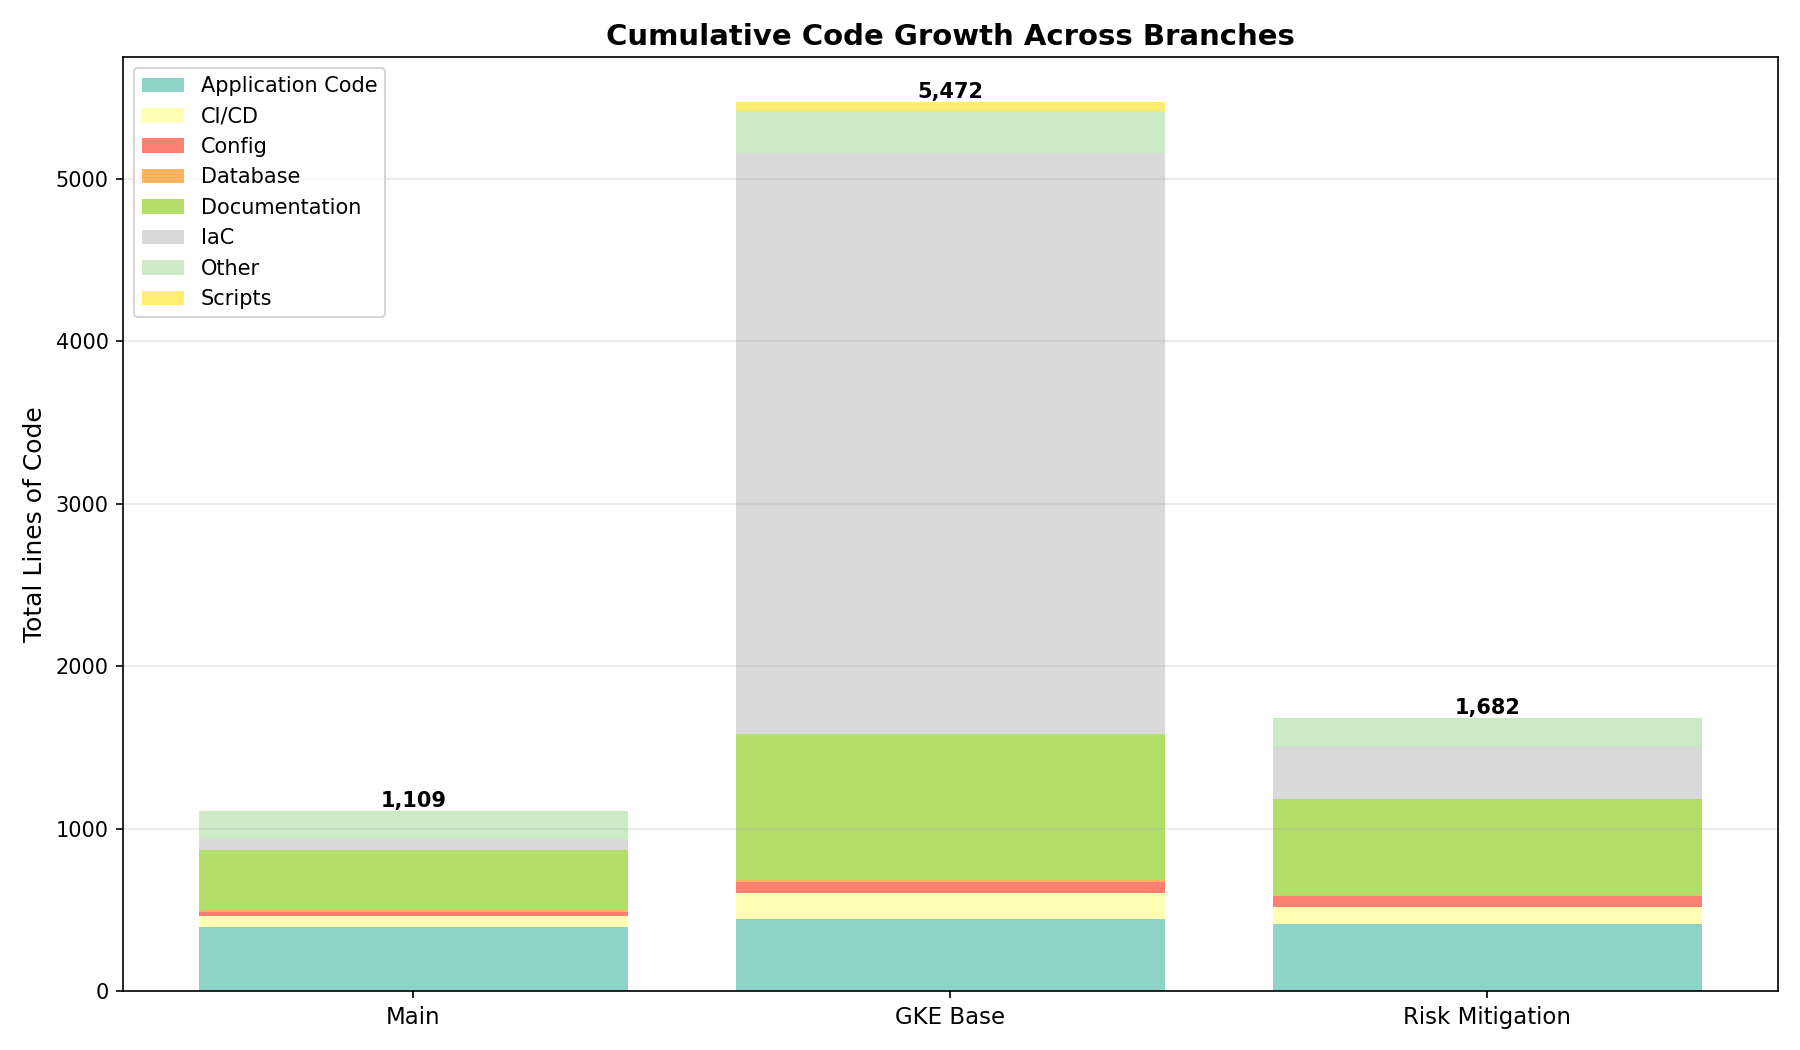
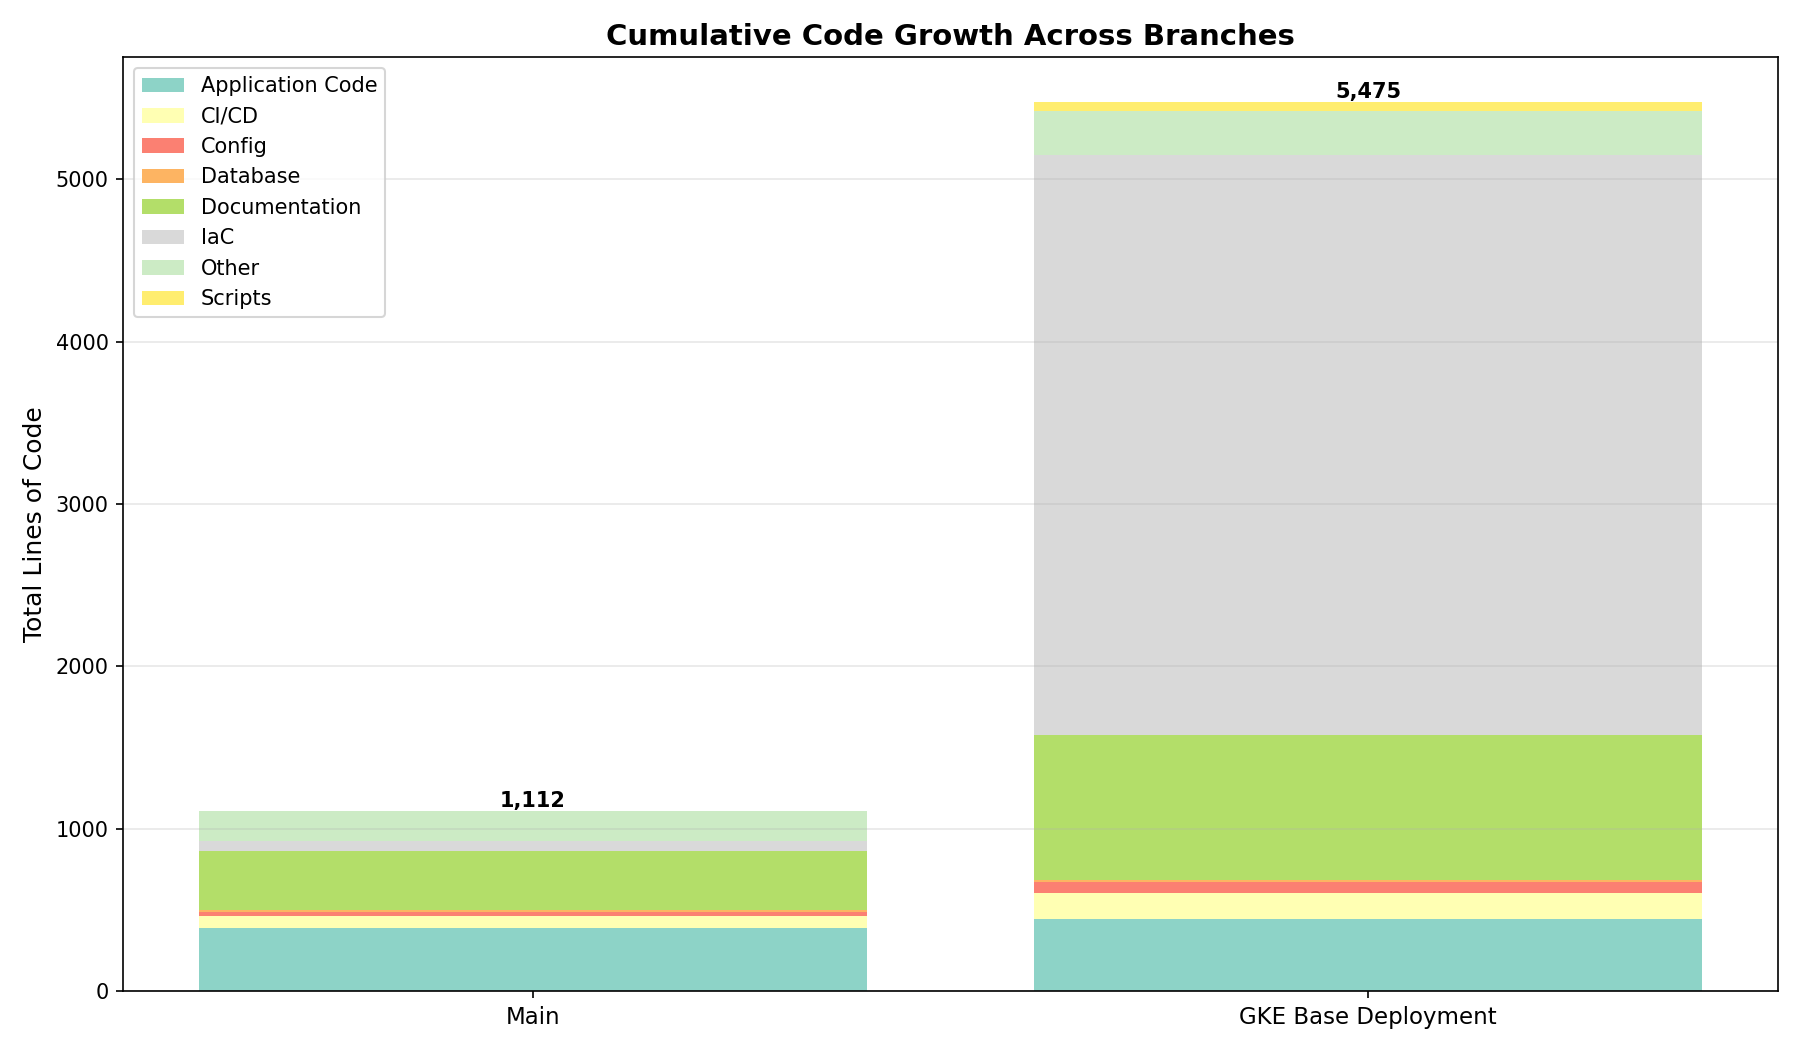
Simplify analysis to show main → GKE base progression only

diff --git a/analyze_repo.py b/analyze_repo.py
@@ -75,24 +75,24 @@ def analyze_branches(branches):
 
 def main():
     main_stats = analyze_main()
-    # Exclude ha-scalability-hardening since it has no changes yet
-    branches = ["feature/gke-base-deployment", "feature/risk-mitigation"]
-    branch_stats = analyze_branches(branches)
+    # Only analyze gke-base-deployment (risk-mitigation is an earlier parallel branch)
+    gke_base_stats = analyze_branches(["feature/gke-base-deployment"])
     
     # Calculate cumulative totals
-    cumulative_stats = {"main": main_stats}
+    cumulative_stats = {}
     
-    for branch in branches:
-        # Start with main's totals
-        cumulative = dict(main_stats)
-        # Apply this branch's changes (added - deleted) to main's totals
-        for cat, changes in branch_stats.get(branch, {}).items():
-            cumulative[cat] = cumulative.get(cat, 0) + changes['added'] - changes['deleted']
-        cumulative_stats[branch] = cumulative
+    # Main baseline
+    cumulative_stats["main"] = main_stats
+    
+    # GKE Base = Main + gke-base changes
+    gke_cumulative = dict(main_stats)
+    for cat, changes in gke_base_stats.get("feature/gke-base-deployment", {}).items():
+        gke_cumulative[cat] = gke_cumulative.get(cat, 0) + changes['added'] - changes['deleted']
+    cumulative_stats["feature/gke-base-deployment"] = gke_cumulative
     
     report = {
         "main": main_stats,
-        "branches_delta": branch_stats,
+        "branches_delta": gke_base_stats,
         "cumulative": cumulative_stats
     }
     
@@ -105,13 +105,13 @@ def generate_chart(report):
         import matplotlib.pyplot as plt
         import numpy as np
         
-        # Use cumulative data for the chart - show progression: main -> base -> risk
-        branch_order = ["main", "feature/gke-base-deployment", "feature/risk-mitigation"]
+        # Use cumulative data for the chart - show progression: main -> gke-base
+        branch_order = ["main", "feature/gke-base-deployment"]
         data = {k: report['cumulative'][k] for k in branch_order}
         
         branches = list(data.keys())
         # Rename for display
-        branch_labels = ["Main", "GKE Base", "Risk Mitigation"]
+        branch_labels = ["Main", "GKE Base Deployment"]
         categories = sorted(list({k for b in data.values() for k in b.keys()}))
         
         if not categories:

diff --git a/REPO_ANALYSIS.md b/REPO_ANALYSIS.md
@@ -1,12 +1,11 @@
 # Repository Analysis: Todo App Go
 
-This analysis tracks the evolution of the codebase across branches, showing cumulative line counts over time.
+This analysis tracks the evolution of the codebase from the main branch to the production-ready GKE deployment.
 
 ## Methodology
 
 - **Main Branch**: Baseline measurement of all code in the main branch
-- **Branch Deltas**: Lines added/deleted in each feature branch relative to main
-- **Cumulative Totals**: Total lines of code including main + branch changes
+- **GKE Base Deployment**: Cumulative total including main + all GKE deployment infrastructure
 
 ## Code Categories
 
@@ -19,67 +18,53 @@ This analysis tracks the evolution of the codebase across branches, showing cumu
 - **Config**: Configuration files (go.mod, .env, etc.)
 - **Other**: Miscellaneous files
 
-## Cumulative Line Counts by Branch
+## Cumulative Line Counts
 
 ### Main Branch (Baseline)
 | Category | Lines |
 |----------|-------|
 | Application Code | 392 |
-| Documentation | 348 |
-| Other | 178 |
+| Documentation | 362 |
+| Other | 187 |
 | CI/CD | 69 |
 | IaC | 64 |
 | Config | 29 |
 | Database | 9 |
-| **TOTAL** | **1,089** |
+| **TOTAL** | **1,112** |
 
-### feature/gke-base-deployment
+### GKE Base Deployment
 | Category | Lines | Change from Main |
 |----------|-------|------------------|
 | **IaC** | **3,571** | **+3,507** |
-| Documentation | 880 | +532 |
+| Documentation | 894 | +532 |
 | Application Code | 443 | +51 |
-| Other | 263 | +85 |
+| Other | 272 | +85 |
 | CI/CD | 161 | +92 |
 | Config | 69 | +40 |
 | Scripts | 56 | +56 |
 | Database | 9 | 0 |
-| **TOTAL** | **5,452** | **+4,363** |
+| **TOTAL** | **5,475** | **+4,363** |
 
 **Key Changes:**
-- Massive infrastructure buildout with Terraform and Kubernetes manifests
-- Added comprehensive CI/CD pipeline for GKE deployment
-- Database initialization scripts and documentation
-- Doubled documentation with setup guides
-
-### feature/risk-mitigation
-| Category | Lines | Change from Main |
-|----------|-------|------------------|
-| Documentation | 564 | +216 |
-| Application Code | 412 | +20 |
-| IaC | 327 | +263 |
-| Other | 178 | 0 |
-| CI/CD | 105 | +36 |
-| Config | 67 | +38 |
-| Database | 9 | 0 |
-| **TOTAL** | **1,662** | **+573** |
-
-**Key Changes:**
-- Risk mitigation planning and documentation
-- Additional IaC for security and monitoring
-- Enhanced CI/CD with security scanning
+- Massive infrastructure buildout with Terraform and Kubernetes manifests (64 → 3,571 lines)
+- Comprehensive CI/CD pipeline for automated GKE deployment
+- Database initialization via Kubernetes Job with Cloud SQL Proxy
+- Extensive documentation for setup, deployment, and troubleshooting
+- Production-ready logging and monitoring configuration
 
 ## Visualization
 
-![Code Distribution by Branch](branch_comparison.png)
+![Code Growth: Main to GKE Deployment](branch_comparison.png)
 
-The stacked bar chart shows the cumulative growth of code across branches: Main → GKE Base → Risk Mitigation. Each segment represents a code category, and the total height shows the complete line count for that stage.
+The stacked bar chart shows the cumulative growth from Main to GKE Base Deployment. Each colored segment represents a code category, with the total height showing complete line count.
 
 ## Summary
 
-The repository has evolved through distinct phases:
-1. **Main** (1,089 lines): Simple Docker-based local development setup
-2. **GKE Base** (5,452 lines): Production GKE deployment with full IaC (+400% growth)
-3. **Risk Mitigation** (1,662 lines): Security and monitoring enhancements
+The repository evolved from a **1,112-line** simple Docker-based local development setup to a **5,475-line** production-ready GKE deployment, representing a **392% increase**. 
 
-The most significant growth occurred in the GKE deployment phase, driven primarily by infrastructure code (Terraform + Kubernetes manifests) which grew from 64 to 3,571 lines.
+The growth was driven primarily by:
+- **Infrastructure as Code** (Terraform + Kubernetes): 3,507 new lines
+- **Documentation**: 532 new lines covering deployment, CI/CD, and operations
+- **CI/CD Pipeline**: 92 new lines for automated build, test, and deployment
+
+This transformation reflects the complete journey from local development to cloud-native production deployment with proper infrastructure management, automation, and operational documentation.
